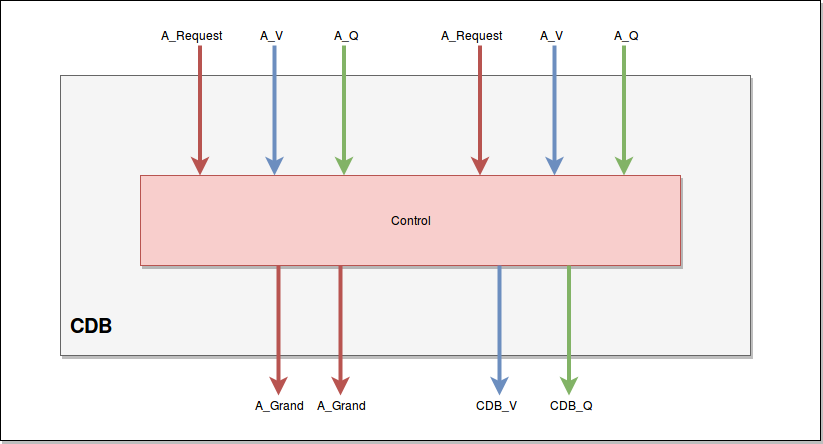
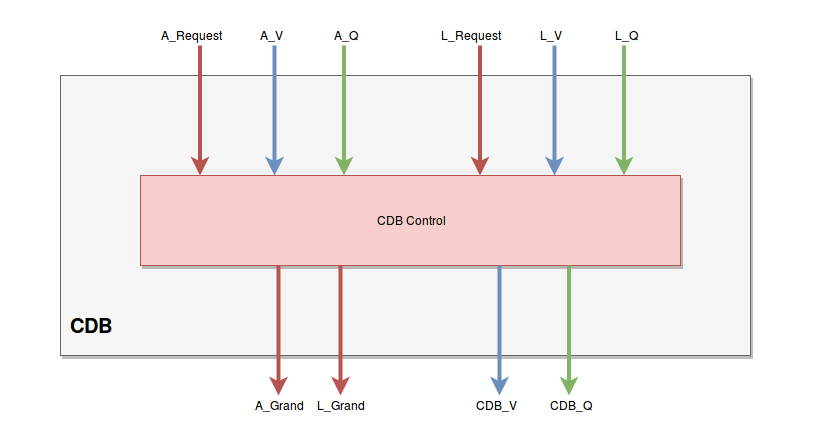
All diagrams rev1 added

diff --git a/TODO.md b/TODO.md
@@ -1,8 +1,8 @@
 # Todo List:
 	
 	* Issue :
-		diagram
-
+		check diagram
+		
 	* RF : 
 
 	* RS :
@@ -17,6 +17,7 @@
 
 # Completed:
 	* Issue :
+		block diagram v1
 
 	* RF : 
 		block diagram v1
